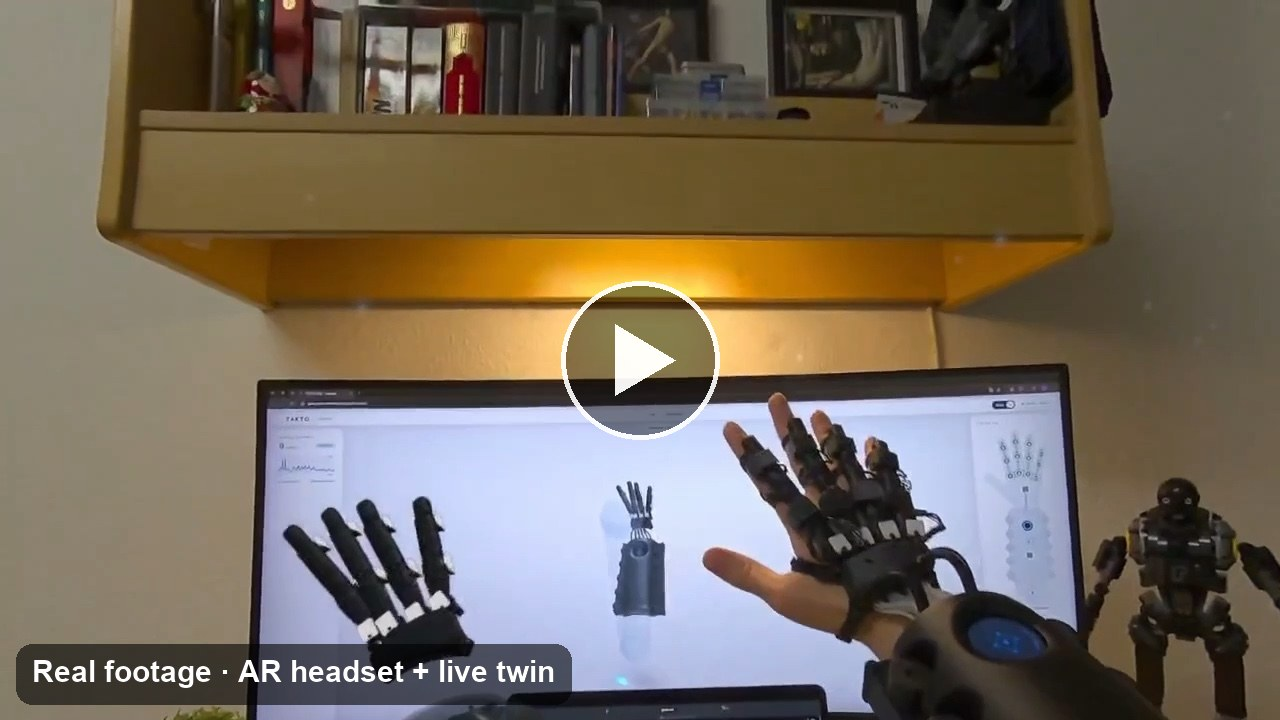
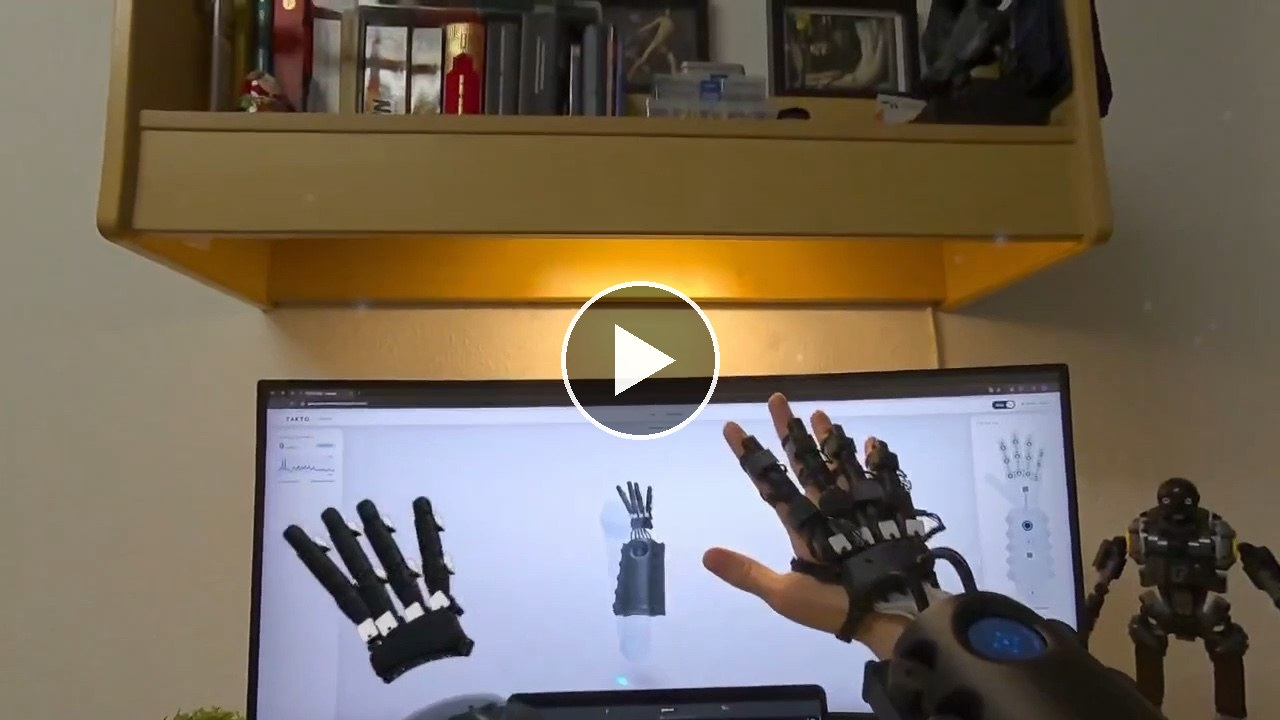
README: the footage loops render, and the posters carry only a play button

Changed region(s): [[0.0, 0.8861, 0.4688, 0.9778]]

diff --git a/README.md b/README.md
@@ -36,10 +36,12 @@ twin and the console, right in your browser.
 
 <div align="center">
 
-<a href="https://cdn.jsdelivr.net/gh/molanocortes/takto-one@d8c04761f672f3876d8088133d9401f613b00abd/docs/media/TAKTO-WORN.mp4"><picture>
+<a href="https://cdn.jsdelivr.net/gh/molanocortes/takto-one@d8c04761f672f3876d8088133d9401f613b00abd/docs/media/TAKTO-WORN.mp4">
+<picture>
   <source media="(min-width: 768px) and (pointer: fine) and (prefers-reduced-motion: no-preference)" srcset="docs/media/worn-loop.gif">
   <img src="docs/media/worn-poster.jpg" alt="TAKTO ONE worn on the arm, phone footage, the hand opening and closing" width="400">
-</picture></a>
+</picture>
+</a>
 
 <sub>The black build, filmed with a phone on 14 October 2026.</sub>
 
@@ -51,10 +53,12 @@ twin and the console, right in your browser.
 
 <div align="center">
 
-<a href="https://cdn.jsdelivr.net/gh/molanocortes/takto-one@d8c04761f672f3876d8088133d9401f613b00abd/docs/media/TAKTO-AR.mp4"><picture>
+<a href="https://cdn.jsdelivr.net/gh/molanocortes/takto-one@d8c04761f672f3876d8088133d9401f613b00abd/docs/media/TAKTO-AR.mp4">
+<picture>
   <source media="(min-width: 768px) and (pointer: fine) and (prefers-reduced-motion: no-preference)" srcset="docs/media/ar-loop.gif">
   <img src="docs/media/ar-poster.jpg" alt="Recorded through a Quest headset: the TAKTO twin floats beside the real device, with the web twin on the monitor behind" width="100%">
-</picture></a>
+</picture>
+</a>
 
 <sub>Recorded through a Quest headset. Nothing from the headset moves the twin's fingers: the twelve
 encoders bend them and the two IMUs turn the wrist. The web twin runs on the monitor behind. The
